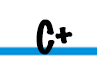
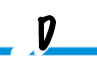
skip button change to next question

Changed region(s): [[0.0928, 0.1818, 0.7732, 0.7273]]

diff --git a/src/GameLayer.js b/src/GameLayer.js
@@ -9,7 +9,13 @@ var GameLayer = cc.LayerColor.extend({
 
         // F D  C  B  A
         var gradeScore;
-        this.gradeScore = 0;     
+        this.gradeScore = 0;   
+
+        var clickedSkip;
+        this.clickedSkip = new Array();
+        for(var i=0 ; i<5 ; i++){
+            this.clickedSkip[i] = false;
+        }    
 
         this.scheduleUpdate();
         this.setMouseEnabled( true );        
@@ -58,7 +64,41 @@ var GameLayer = cc.LayerColor.extend({
 
     onMouseDown: function( e ){
         var position = e.getLocation();
-        var button = this.getClickedButton( position );
+        var indexOfChoice = this.getIndexChoiceButton( position );
+        this.handlerChoiceButton( indexOfChoice );
+
+        var indexOfSkip = this.getIndexSkipButton( position );
+        this.handlerSkipButton( indexOfSkip );
+        
+    },
+
+
+    onMouseMoved: function( e ){
+        var position = e.getLocation();
+        this.choiceA.mouseMoved( position );
+        this.choiceB.mouseMoved( position );
+        this.choiceC.mouseMoved( position );
+        this.choiceD.mouseMoved( position );
+
+        
+        for (var i = 0; i < 5; i++){
+            if(this.clickedSkip[i]==false){
+                this.skips[i].mouseMoved( position , i);
+            }
+        }
+    },
+
+    getIndexChoiceButton: function( position ){
+        var choices = [this.choiceA, this.choiceB, this.choiceC, this.choiceD];
+        for(var i = 0; i < choices.length ; i++ ){
+            var box = choices[i].getBoundingBox();
+            if(cc.rectContainsPoint( box , position )){
+                return i;
+            }
+        }
+    },
+
+    handlerChoiceButton: function( button ){
         if( button === 0 ){
             this.choiceA.changePic();
             this.checkRightAnswer( button );
@@ -81,29 +121,25 @@ var GameLayer = cc.LayerColor.extend({
         }
     },
 
-
-    onMouseMoved: function( e ){
-        var position = e.getLocation();
-        this.choiceA.mouseMoved( position );
-        this.choiceB.mouseMoved( position );
-        this.choiceC.mouseMoved( position );
-        this.choiceD.mouseMoved( position );
-
-        for (var i = 0; i < 5; i++)
-            this.skips[i].mouseMoved( position , i);
-        
-    },
-
-    getClickedButton: function( position ){
-        var choices = [this.choiceA, this.choiceB, this.choiceC, this.choiceD];
-       // var point = e.getLocation();
-
-        for(var i = 0; i < choices.length; i++){
-            var box = choices[i].getBoundingBox();
+    getIndexSkipButton: function( position ){
+        var skipButton = [this.skips[0], this.skips[1], this.skips[2], this.skips[3], this.skips[4]];
+        for(var i = 0 ; i < skipButton.length ; i++){
+            var box = skipButton[i].getBoundingBox();
             if(cc.rectContainsPoint( box , position )){
                 return i;
             }
         }
+        return -1;
+    },
+
+    handlerSkipButton: function( indexOfSkip ){
+        if(this.clickedSkip[indexOfSkip]==false){
+            this.currentStage++;
+            this.bgQuestion.changePic( this.currentStage );
+            console.log("currentStage = " + this.currentStage);
+            this.skips[indexOfSkip].setTexture(cc.TextureCache.getInstance().addImage('images/skipNotAllowed.png'));   
+        } 
+        this.clickedSkip[indexOfSkip] = true;    
     },
    
     checkRightAnswer: function ( button ){
@@ -120,6 +156,7 @@ var GameLayer = cc.LayerColor.extend({
             this.gradeScore++;
             this.bgQuestion.changePic( this.currentStage );
             this.grade.changePic( this.gradeScore );
+            console.log( "This current stage = " + this.currentStage );
             console.log( "Wrong" );
         }
         

diff --git a/src/Grade.js b/src/Grade.js
@@ -4,8 +4,11 @@ var Grade = cc.Sprite.extend({
         this.initWithFile( 'images/grade0.png' );
     },
 
-    changePic: function( currentStage ) {
-    	this.setTexture(cc.TextureCache.getInstance().addImage('images/grade'+currentStage+'.png'));
+    changePic: function( gradeScore ) {
+    	if(gradeScore>4) { console.log(" GAME OVER "); }
+    	else {
+    		this.setTexture(cc.TextureCache.getInstance().addImage('images/grade'+gradeScore+'.png'));
+   		}
     }
 
 });
